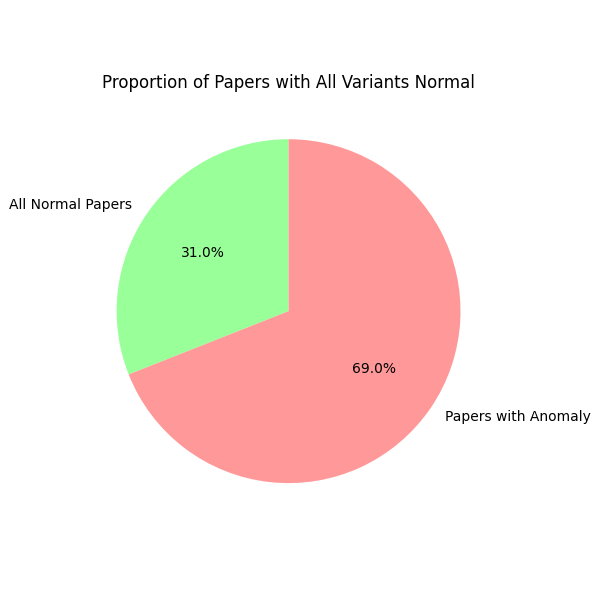
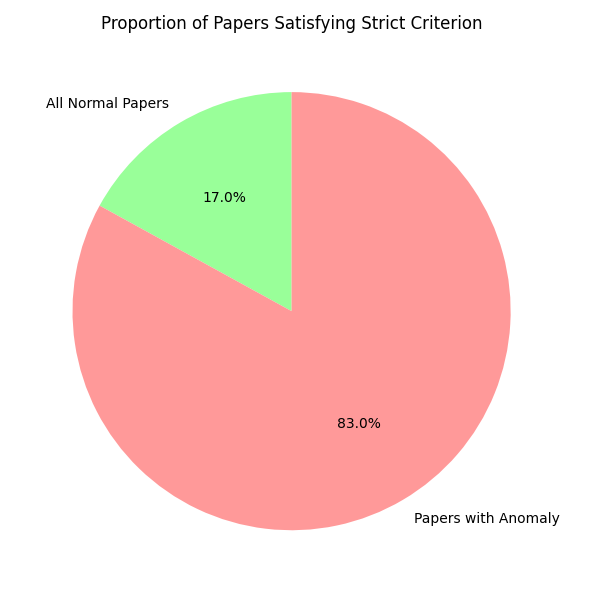
update strict criterion for normal and reasonable score change papers; revise analysis script and output files accordingly

diff --git a/scripts/anomaly_ratio_stacked_bar.py b/scripts/anomaly_ratio_stacked_bar.py
@@ -335,21 +335,51 @@ print(f"Saved score-decision change stacked plot to {outdir}/score_decision_chan
 # 导出案例
 pd.DataFrame(score_decision_cases).to_csv(f'{outdir}/score_decision_change_cases.csv', index=False)
 
-# ========== 评分变化热力图正常论文统计 ==========
+# ========== 评分变化热力图正常论文统计（严格标准） ==========
 # 构建评分变化矩阵（与热力图一致）
 pivot = df_dec.pivot_table(index='base_paper_id', columns='variant_type', values='rating')
 score_diff = pivot.subtract(pivot['original'], axis=0)
 score_diff = score_diff.drop(columns=['original'])
-# 统计每篇论文所有变体分数变化是否都≤0
-all_normal_mask = (score_diff <= 0).all(axis=1)
-all_normal_papers = score_diff[all_normal_mask]
+# 严格标准：
+# no_experiment(s)/no_methods/no_introduction 必须 < 0
+# no_abstract/no_conclusion 必须 <= 0
+experiment_col = 'no_experiments' if 'no_experiments' in score_diff.columns else (
+    'no_experiment' if 'no_experiment' in score_diff.columns else None
+)
+strict_columns = {
+    'no_abstract': 'le',
+    'no_introduction': 'lt',
+    'no_methods': 'lt',
+    'no_conclusion': 'le'
+}
+if experiment_col is not None:
+    strict_columns[experiment_col] = 'lt'
+missing_variants = [v for v in ['no_abstract', 'no_introduction', 'no_methods', 'no_conclusion'] if v not in score_diff.columns]
+if experiment_col is None:
+    missing_variants.append('no_experiment(s)')
+if missing_variants:
+    print(f"Warning: strict criterion skipped missing variants: {missing_variants}")
+
+strict_actual_variants = [v for v in strict_columns if v in score_diff.columns]
+score_diff_strict = score_diff[strict_actual_variants].dropna()
+all_normal_mask = pd.Series(True, index=score_diff_strict.index)
+for col, op in strict_columns.items():
+    if col not in score_diff_strict.columns:
+        continue
+    if op == 'lt':
+        all_normal_mask = all_normal_mask & (score_diff_strict[col] < 0)
+    else:
+        all_normal_mask = all_normal_mask & (score_diff_strict[col] <= 0)
+all_normal_papers = score_diff_strict[all_normal_mask]
 num_all_normal = all_normal_papers.shape[0]
-total_papers = score_diff.shape[0]
+total_papers = score_diff_strict.shape[0]
 percent_all_normal = num_all_normal / total_papers if total_papers else 0
 # 导出全正常论文base_paper_id及分数变化
 all_normal_papers.to_csv(f'{outdir}/all_normal_papers_score_diff.csv')
 # 输出统计结果
 with open(f'{outdir}/all_normal_papers_stats.txt', 'w', encoding='utf-8') as f:
+    exp_label = experiment_col if experiment_col is not None else 'no_experiment(s)'
+    f.write(f'统计标准: {exp_label}/no_methods/no_introduction < 0; no_abstract/no_conclusion <= 0\n')
     f.write(f'全正常论文数量: {num_all_normal}\n')
     f.write(f'总论文数量: {total_papers}\n')
     f.write(f'全正常论文比例: {percent_all_normal:.2%}\n')
@@ -361,7 +391,7 @@ labels_pie = ['All Normal Papers', 'Papers with Anomaly']
 sizes = [num_all_normal, total_papers-num_all_normal]
 colors_pie = ['#99ff99','#ff9999']
 ax.pie(sizes, labels=labels_pie, autopct='%1.1f%%', colors=colors_pie, startangle=90)
-ax.set_title('Proportion of Papers with All Variants Normal')
+ax.set_title('Proportion of Papers Satisfying Strict Criterion')
 plt.tight_layout()
 plt.savefig(f'{outdir}/all_normal_papers_pie.png')
 plt.close()
@@ -381,24 +411,48 @@ plt.savefig(f'{outdir}/score_change_heatmap_all_papers.png')
 plt.close()
 print(f"Saved score change heatmap for all papers to {outdir}/score_change_heatmap_all_papers.png")
 
-# ========== 变体合理降分论文统计 ==========
-# 自动过滤不存在的列，避免 KeyError
-required_variants = ['no_abstract','no_experiments','no_introduction','no_methods','no_conclusion']
-actual_variants = [v for v in required_variants if v in score_diff.columns]
-score_diff_req = score_diff[actual_variants].dropna()
-mask = (
-    (score_diff_req['no_abstract'] < 0) if 'no_abstract' in score_diff_req else True
-    and (score_diff_req['no_experiments'] < 0) if 'no_experiments' in score_diff_req else True
-    and (score_diff_req['no_introduction'] < 0) if 'no_introduction' in score_diff_req else True
-    and (score_diff_req['no_methods'] < 0) if 'no_methods' in score_diff_req else True
-    and (score_diff_req['no_conclusion'] <= 0) if 'no_conclusion' in score_diff_req else True
+# ========== 变体合理降分论文统计（严格标准） ==========
+# 严格规则：
+# no_experiment(s)/no_methods/no_introduction 必须 < 0
+# no_abstract/no_conclusion 必须 <= 0
+experiment_col = 'no_experiments' if 'no_experiments' in score_diff.columns else (
+    'no_experiment' if 'no_experiment' in score_diff.columns else None
 )
+strict_columns = {
+    'no_abstract': 'le',
+    'no_introduction': 'lt',
+    'no_methods': 'lt',
+    'no_conclusion': 'le'
+}
+if experiment_col is not None:
+    strict_columns[experiment_col] = 'lt'
+
+required_core = ['no_abstract', 'no_introduction', 'no_methods', 'no_conclusion']
+missing_variants = [v for v in required_core if v not in score_diff.columns]
+if experiment_col is None:
+    missing_variants.append('no_experiment(s)')
+if missing_variants:
+    print(f"Warning: strict criterion skipped missing variants: {missing_variants}")
+
+actual_variants = [v for v in strict_columns if v in score_diff.columns]
+score_diff_req = score_diff[actual_variants].dropna()
+mask = pd.Series(True, index=score_diff_req.index)
+for col, op in strict_columns.items():
+    if col not in score_diff_req.columns:
+        continue
+    if op == 'lt':
+        mask = mask & (score_diff_req[col] < 0)
+    else:
+        mask = mask & (score_diff_req[col] <= 0)
+
 reasonable_papers = score_diff_req[mask]
 num_reasonable = reasonable_papers.shape[0]
 total_req_papers = score_diff_req.shape[0]
 percent_reasonable = num_reasonable / total_req_papers if total_req_papers else 0
 reasonable_papers.to_csv(f'{outdir}/reasonable_score_change_papers.csv')
 with open(f'{outdir}/reasonable_score_change_stats.txt', 'w', encoding='utf-8') as f:
+    exp_label = experiment_col if experiment_col is not None else 'no_experiment(s)'
+    f.write(f'统计标准: {exp_label}/no_methods/no_introduction < 0; no_abstract/no_conclusion <= 0\n')
     f.write(f'合理降分论文数量: {num_reasonable}\n')
     f.write(f'总论文数量: {total_req_papers}\n')
     f.write(f'合理降分论文比例: {percent_reasonable:.2%}\n')
